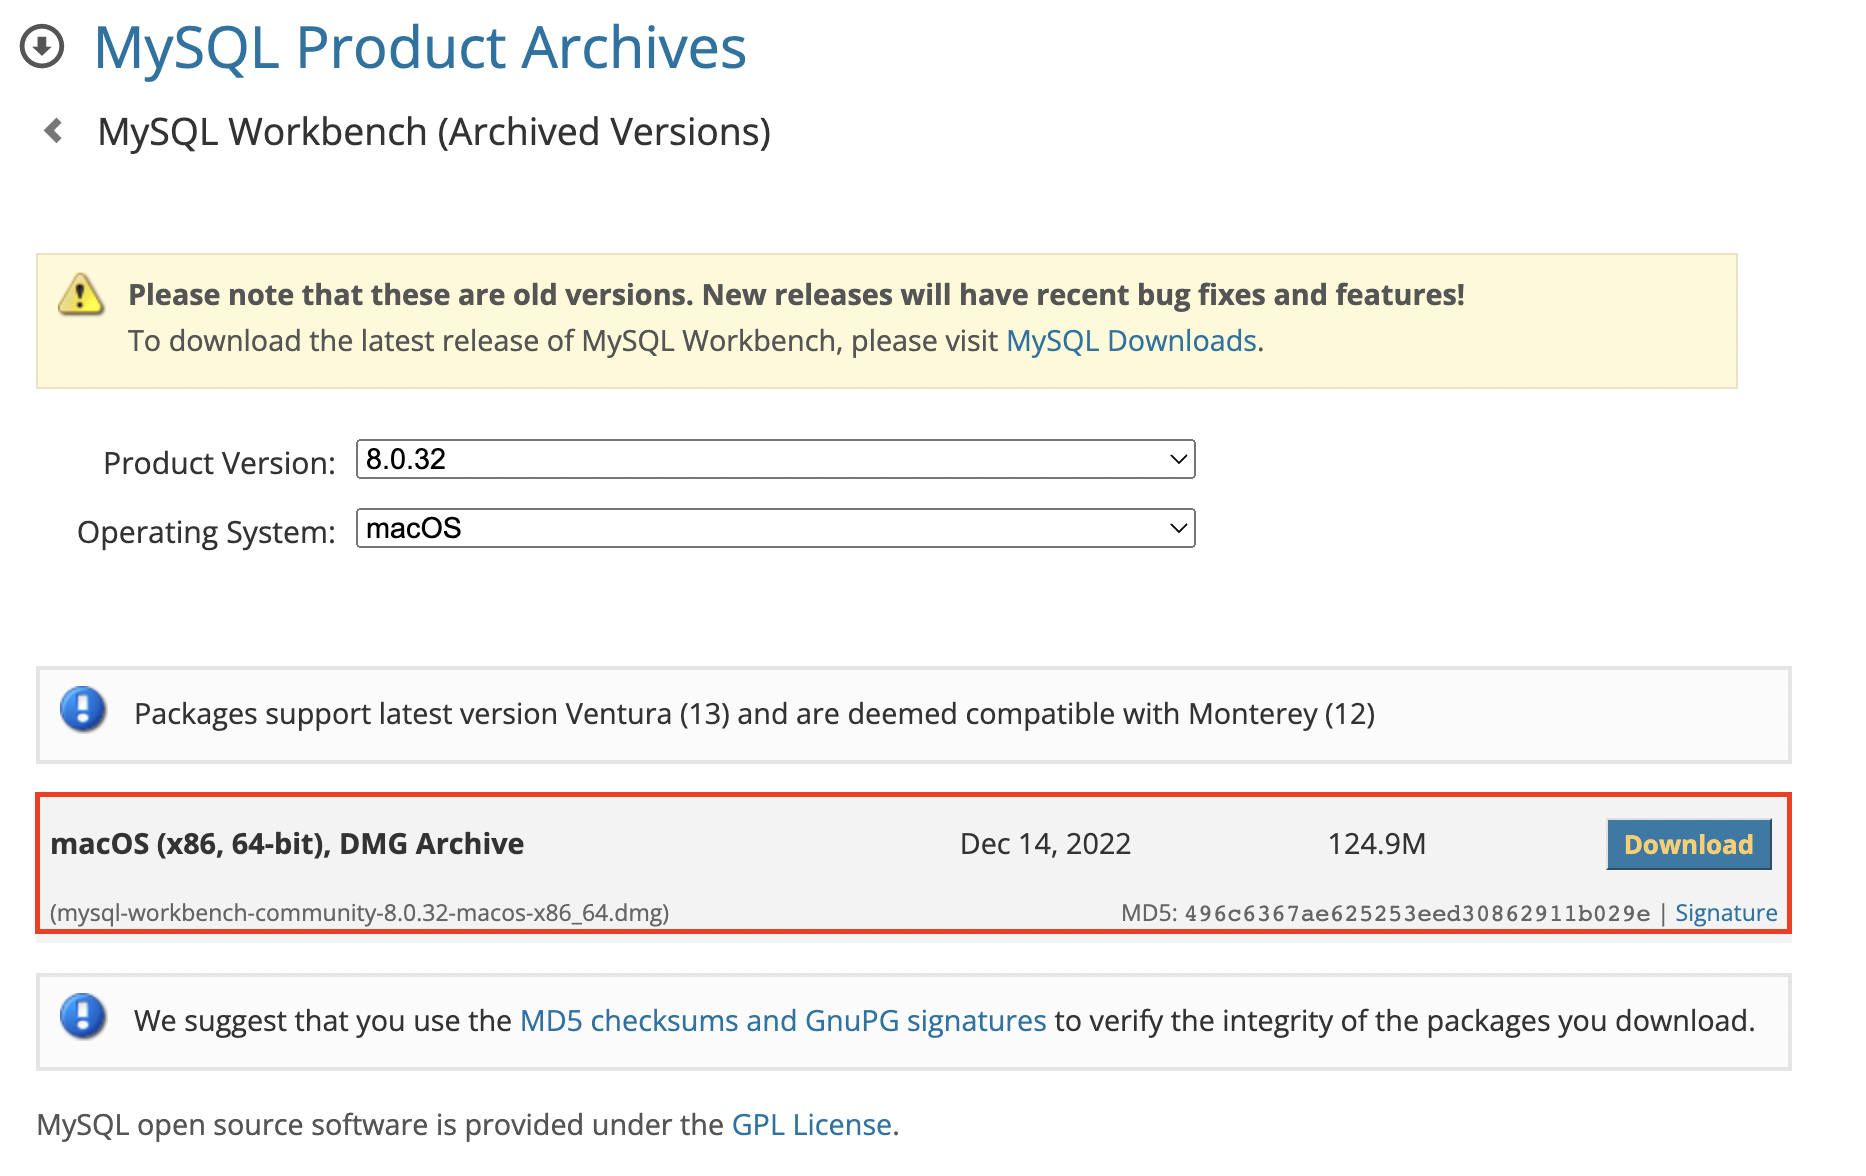
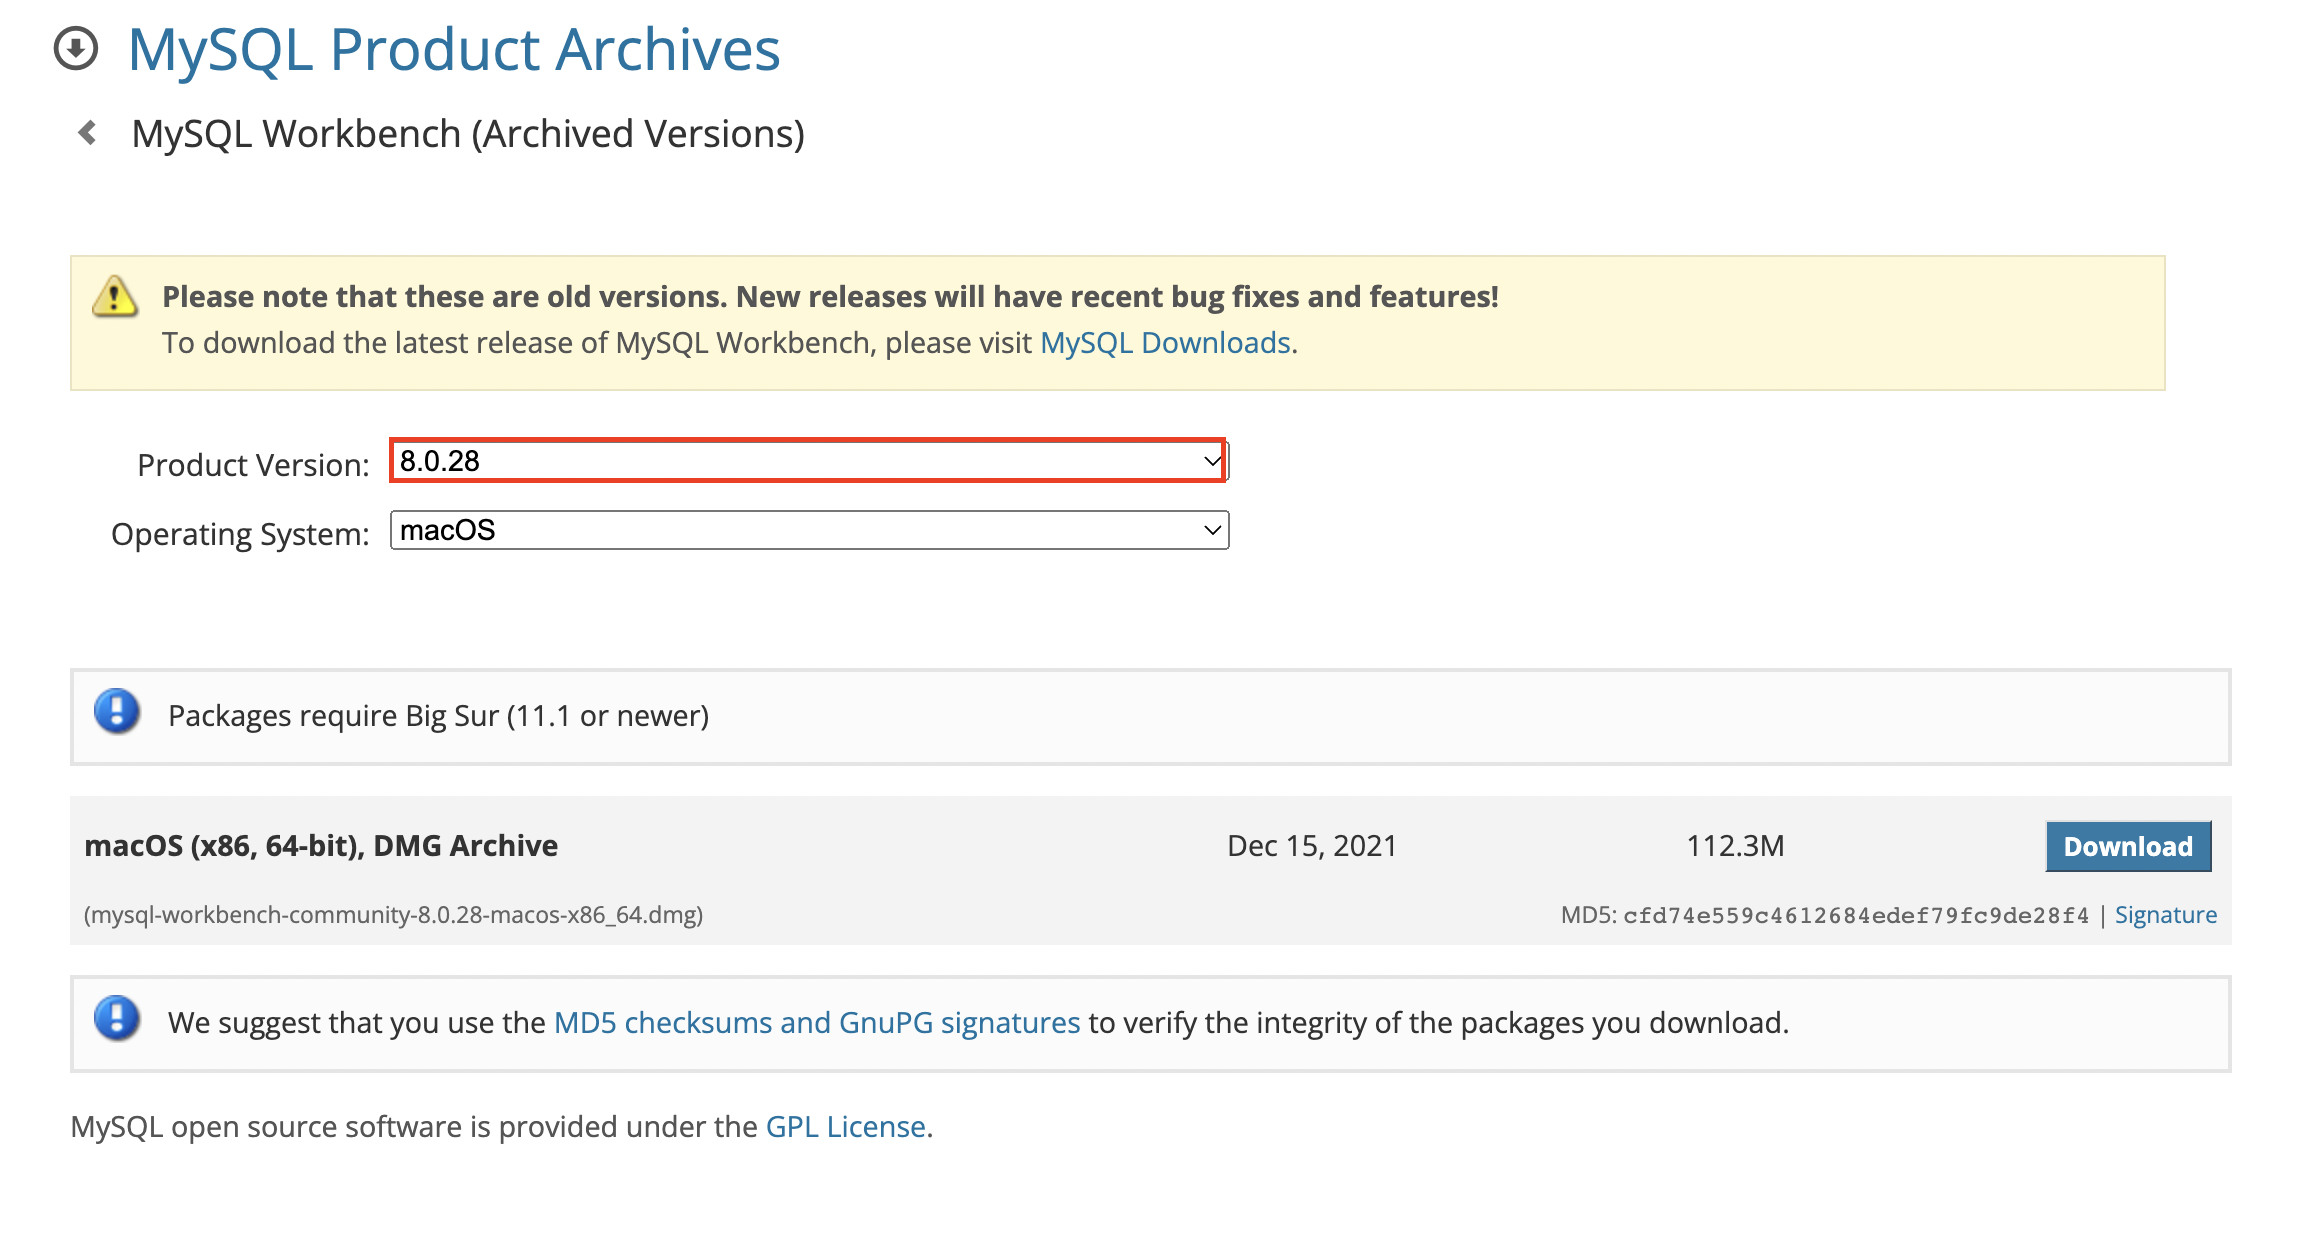
Update [MySQL] Post " MacOS M1 기반 MySQL, Workbench 설치하기 "
- Product version 호환 버전으로 수정

diff --git a/_posts/2023-06-07-MySQL-installation.md b/_posts/2023-06-07-MySQL-installation.md
@@ -392,6 +392,10 @@ mysql.server stop // mysql server 종료
 
 * 설치할 버전과 OS를 확인하여 다운로드 한다.
 
+* Mac M1은 반드시 Product Version을 **8.0.28**로 해야 mysql과 호환이 가능하다.
+
+(8.0.32 이상으로 하면 나중에 mysql 실행할 때`MySQLWorkbench 응용 프로그램이 예기치 않게 종료되었습니다`라는 문구가 뜨게 된다)
+
 ![](/assets/img/mysql/mysql-installation-workbench.png)
 
 * 다운로드가 완료되었다면, `commend + space` (검색창 여는 단축키) 로 MySQL Workbench 앱을 실행시킨다.
